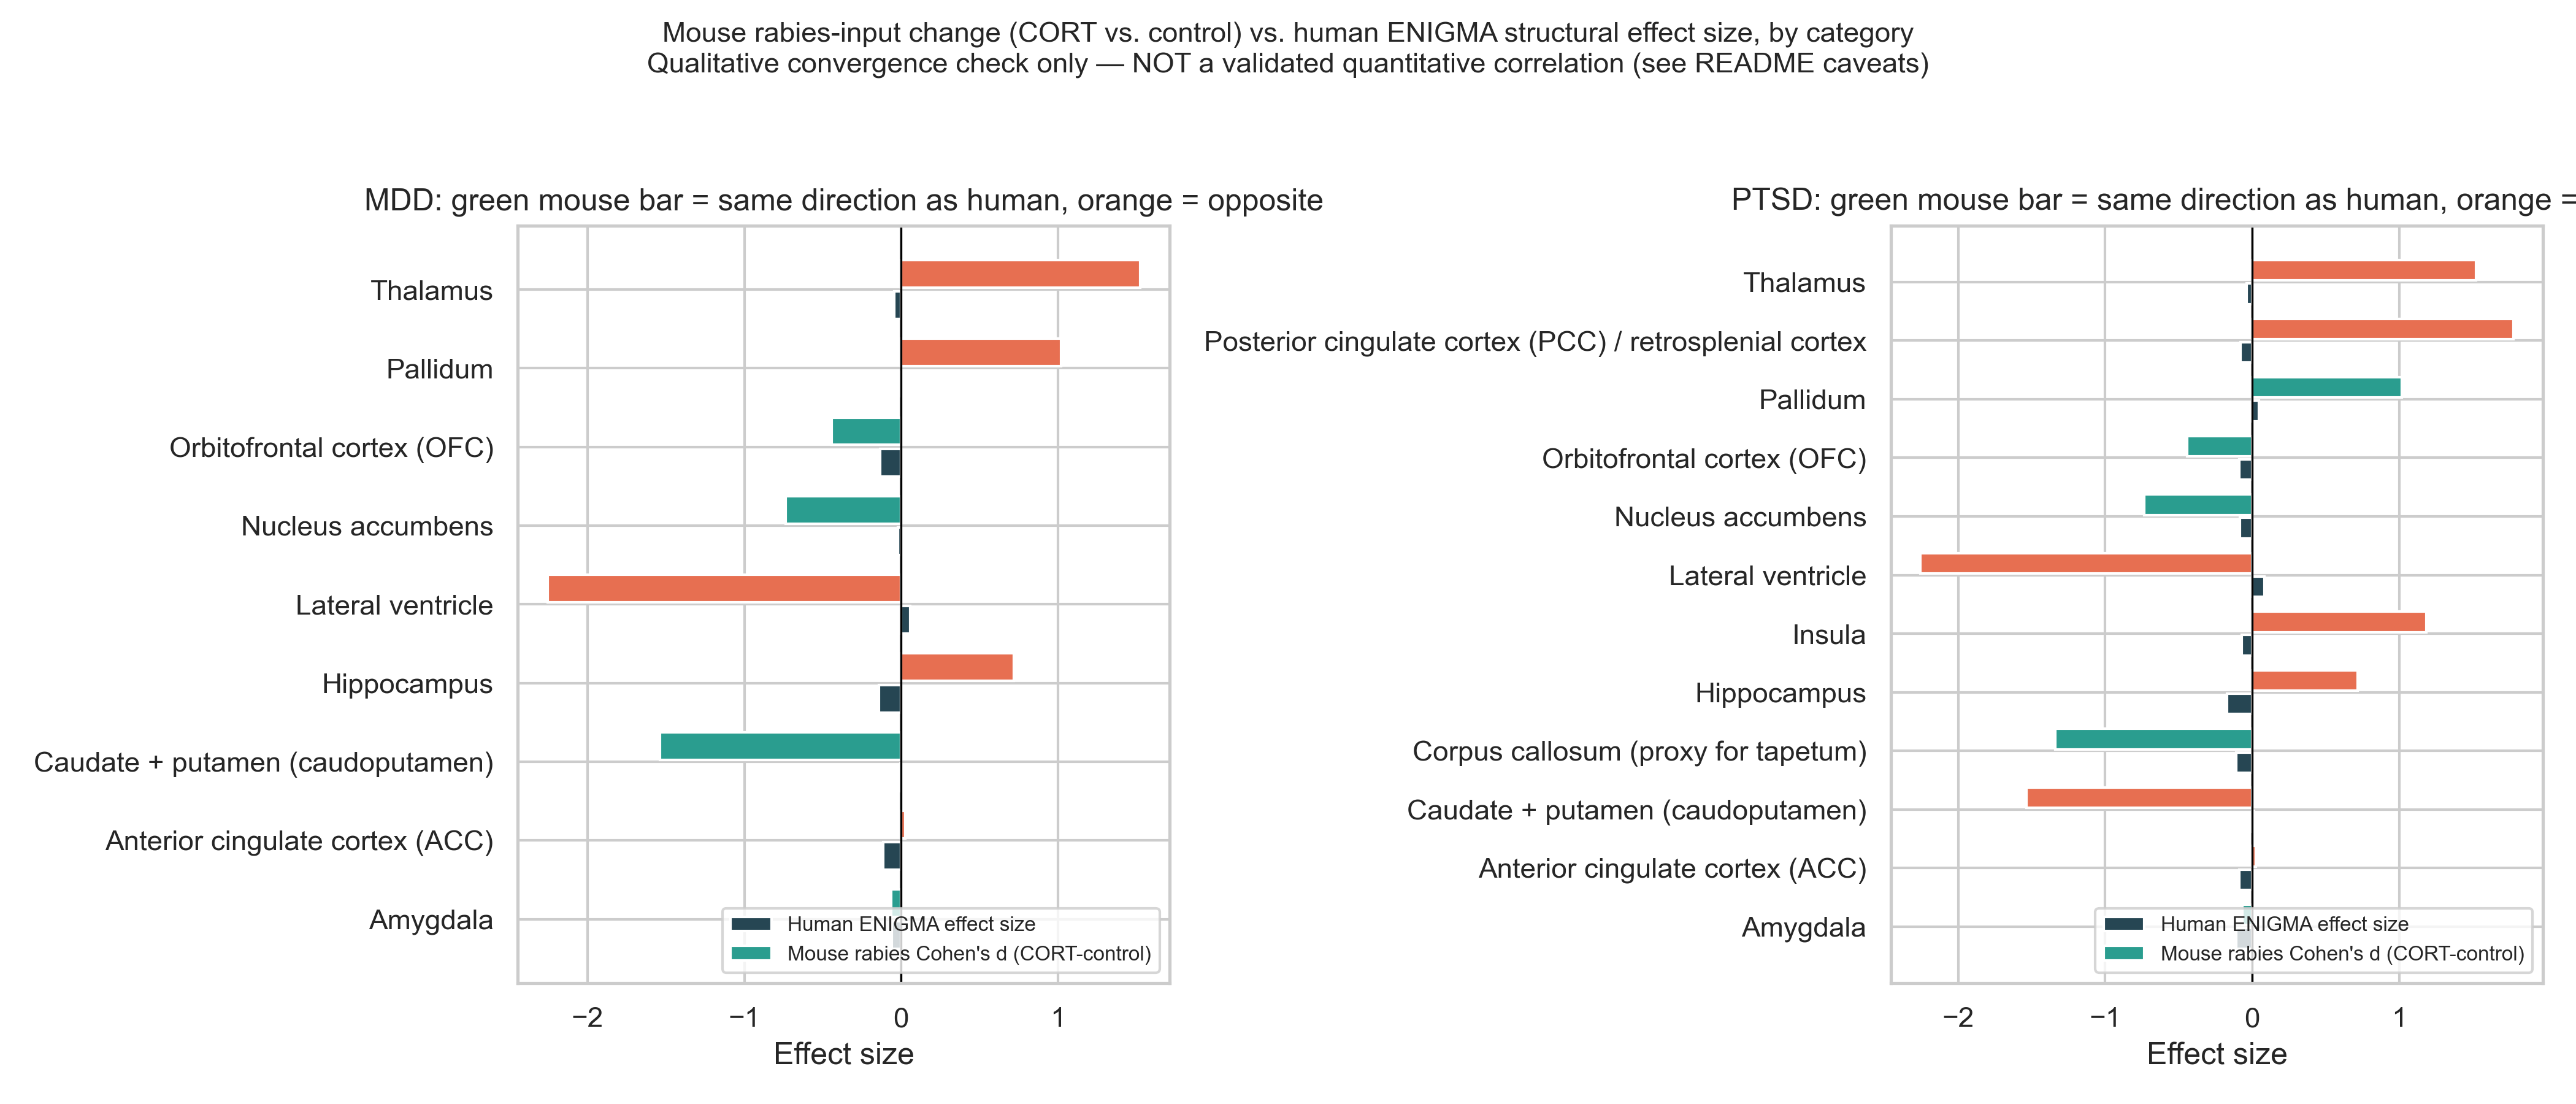
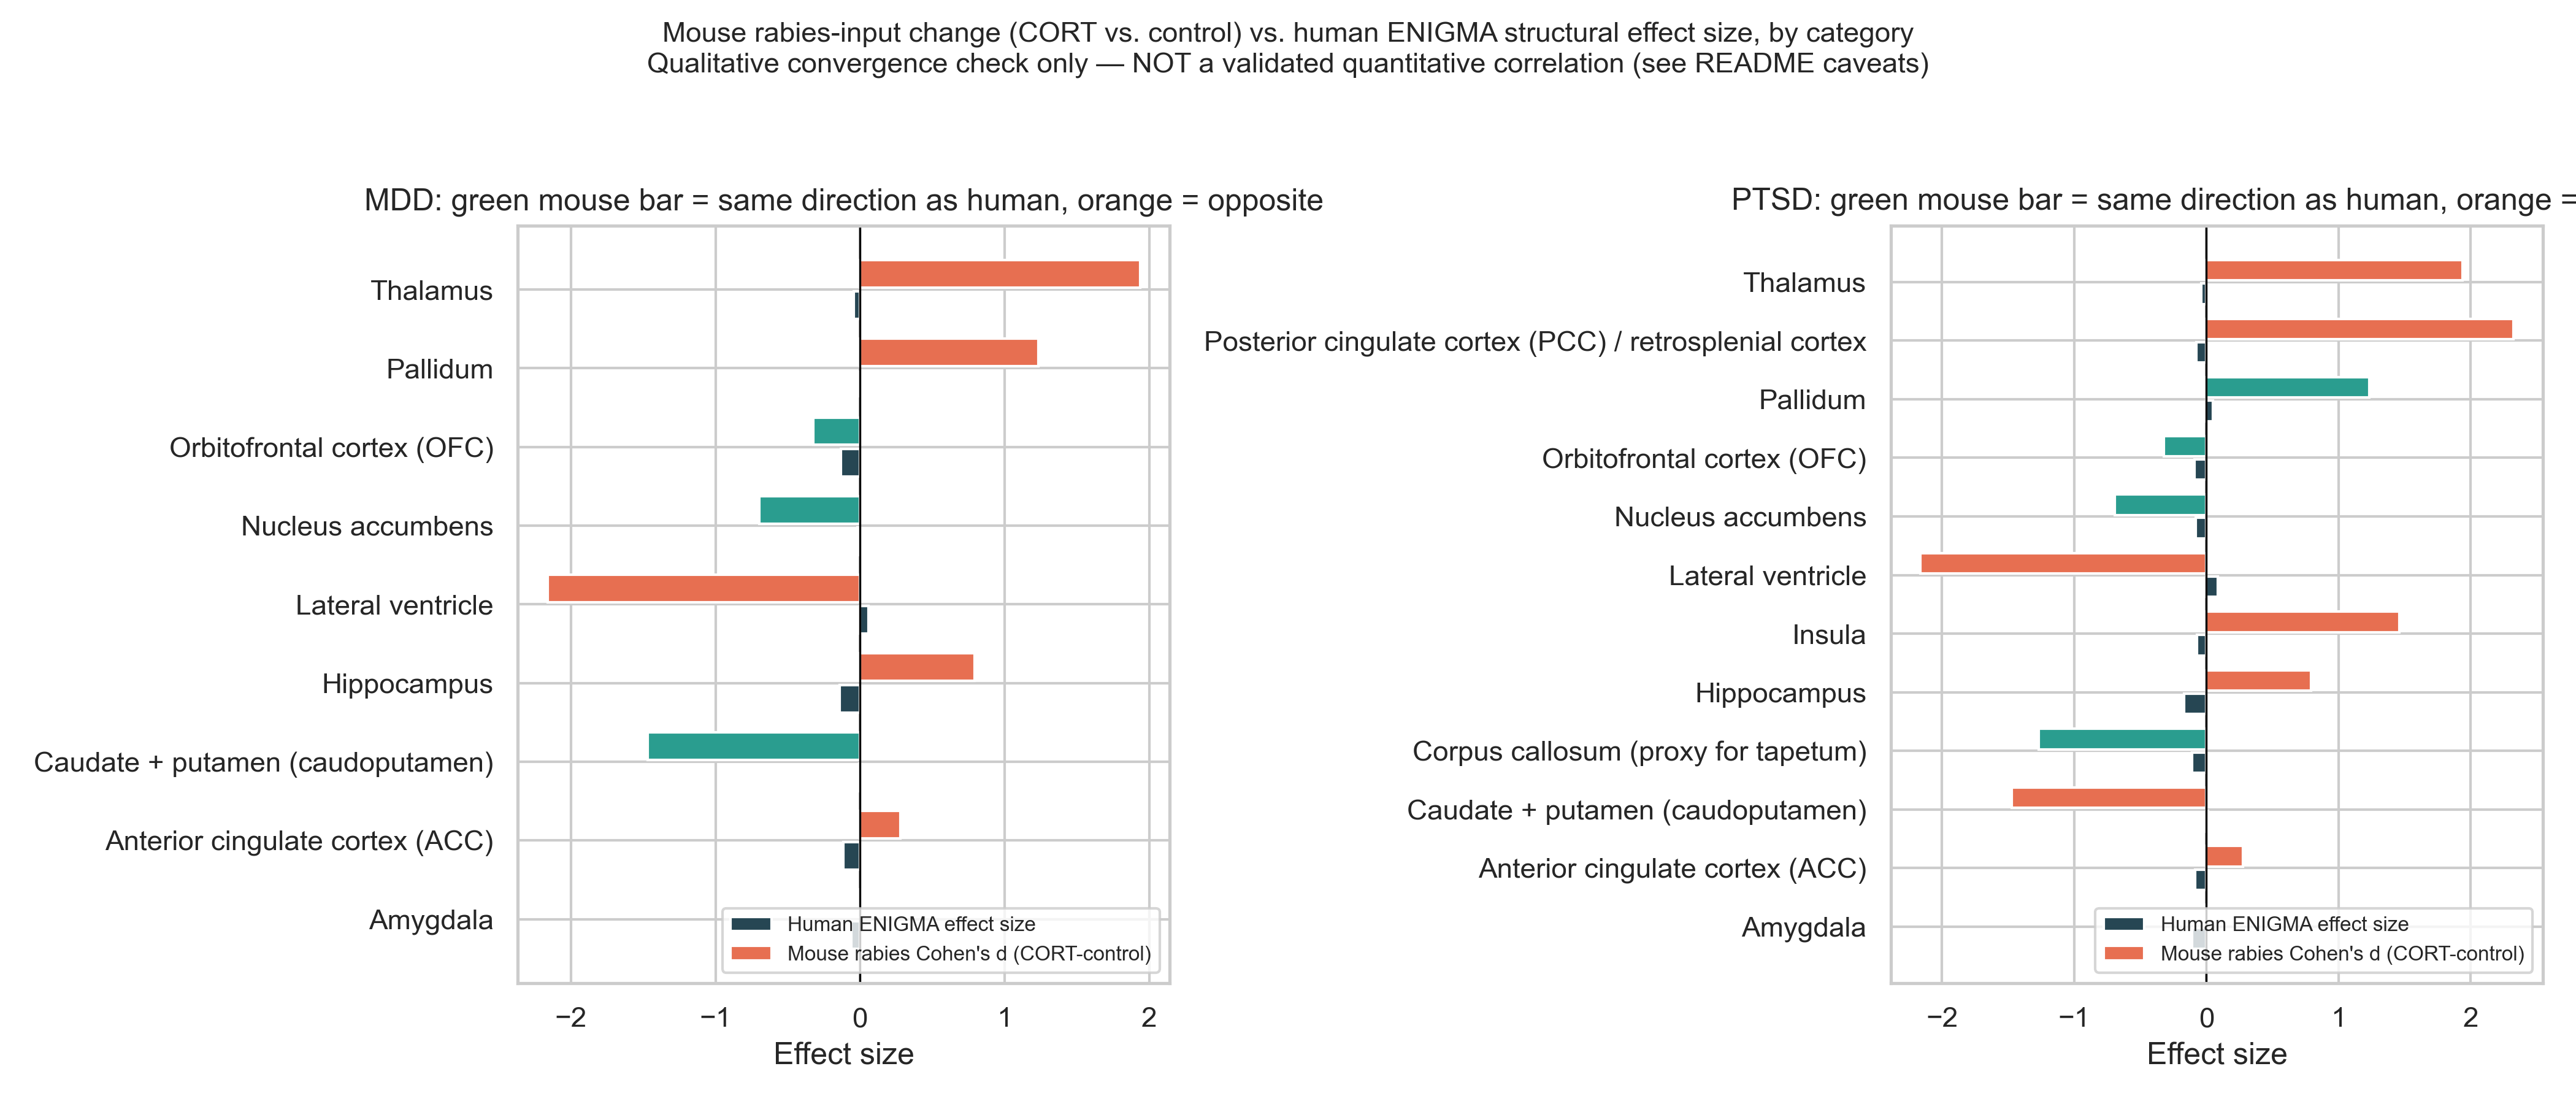
Fix mouse rabies analysis: exclude failed subject, add proper stats
- Discovered subject 4467196_5 (labeled cort) has near-zero rawcount
  across all 4 channels -- a failed injection/registration, not a real
  biological zero. It was silently included in the previous commit
  (8fc6c6e), biasing every CORT-group mean toward zero.
- Added QC filter to load_mouse_data() excluding subjects with
  whole-brain total rawcount below threshold for the target channel.
- Replaced the misleading single 43%/at-or-below-chance framing with:
  deduplicated per-category agreement (honest primary stat), an
  explicit binomial test vs chance, and a call-out of categories where
  MDD/PTSD human effect sizes disagree in sign with each other.
- Added --value-column CLI arg (rawcount vs normalizedcount) as a
  sensitivity check for the compositionality of normalizedcount.
- Corrected result: 3/12 (25%) categories agree in direction
  (binomial p=0.146, not significant), dropping to 2/12 (17%,
  p=0.039) with the rawcount sensitivity check. The fix makes the
  null result stronger, not weaker, than the original 43% figure.
- Updated README Analysis 3 section and AGENT_LOG with full details,
  including elevating the rabies-vs-structural-MRI construct-validity
  gap to a first-order limitation.

diff --git a/BrainBeam/statistics/human_comparison/mouse_human_rabies_correlation.py b/BrainBeam/statistics/human_comparison/mouse_human_rabies_correlation.py
@@ -100,6 +100,17 @@ def parse_args() -> argparse.Namespace:
         default=base_dir / "figures" / "mouse_rabies_vs_enigma_comparison.png",
         help="Output path for the paired human-vs-mouse effect size comparison figure.",
     )
+    parser.add_argument(
+        "--value-column",
+        type=str,
+        default="normalizedcount",
+        choices=["normalizedcount", "rawcount"],
+        help=(
+            "Mouse value column to use. normalizedcount (default) is roughly compositional "
+            "(percent of a subject's total channel count, not a strict closed 1.0); rawcount "
+            "is provided as a non-compositional sensitivity check."
+        ),
+    )
     return parser.parse_args()
 
 
@@ -213,7 +224,10 @@ HUMAN_CATEGORY_KEYWORDS: dict[str, list[str]] = {
 
 
 def load_mouse_data(args: argparse.Namespace) -> pd.DataFrame:
-    """Load and concatenate control + CORT rabies data for the target channel."""
+    """Load and concatenate control + CORT rabies data for the target channel,
+    dropping subjects with a failed rabies channel (near-zero total counts
+    across the whole brain, indicating a failed injection/registration
+    rather than a real biological zero)."""
 
     control_df = pd.read_csv(args.control_csv)
     experimental_df = pd.read_csv(args.experimental_csv)
@@ -226,14 +240,44 @@ def load_mouse_data(args: argparse.Namespace) -> pd.DataFrame:
 
     df = pd.concat([control_df, experimental_df], ignore_index=True)
     df = df[df["channel"] == args.channel].copy()
+
+    # QC: exclude any subject whose total rawcount for this channel is
+    # near zero across the ENTIRE brain (not just one region) -- this
+    # indicates a failed rabies injection/registration for that subject,
+    # not a genuine biological absence of input. Verified manually: subject
+    # 4467196_5 has rawcount==0 in channels 647/488/785 and ~3 total counts
+    # (out of ~1340 regions) in channel 561, i.e. no usable signal in any
+    # channel, and was silently included (uncorrected) in the first pass of
+    # this analysis, biasing every single region's CORT-group mean toward
+    # zero. A subject total below this threshold cannot represent real
+    # rabies labeling and must be dropped before computing group effects.
+    subject_totals = df.groupby("suid")["rawcount"].sum()
+    qc_fail_threshold = 10.0
+    failed_subjects = subject_totals[subject_totals < qc_fail_threshold].index.tolist()
+    if failed_subjects:
+        print(
+            f"QC: excluding {len(failed_subjects)} subject(s) with near-zero total "
+            f"channel-{args.channel} counts (likely failed injection/registration): {failed_subjects}"
+        )
+        df = df[~df["suid"].isin(failed_subjects)].copy()
+
     return df
 
 
 def compute_mouse_category_effects(
-    mouse_df: pd.DataFrame, matchers: dict[str, "callable"]
+    mouse_df: pd.DataFrame, matchers: dict[str, "callable"], value_col: str = "normalizedcount"
 ) -> tuple[pd.DataFrame, pd.DataFrame]:
     """Sum bilateral counts per subject per category, then compute
-    control-vs-CORT Cohen's d / t-test per category."""
+    control-vs-CORT Cohen's d / t-test per category.
+
+    `value_col` defaults to `normalizedcount` (percent of that subject's
+    total channel-647 count, roughly compositional -- summing to ~0.7-0.97
+    rather than a strict 1.0 across subjects, per manual inspection). This
+    is not a fully closed compositional system, but a region's share can
+    still be pulled up or down mechanically by changes in other regions'
+    shares rather than by a true independent biological change in that
+    region alone. `rawcount` is provided as a non-compositional sensitivity
+    check via `--value-column rawcount` on the command line."""
 
     manifest_rows = []
     result_rows = []
@@ -263,10 +307,10 @@ def compute_mouse_category_effects(
         cat_df = mouse_df[region_mask]
         # Sum ipsilateral + contralateral + all pooled subregions per subject
         # to get one bilateral, whole-category value per animal.
-        per_subject = cat_df.groupby(["suid", "group"], as_index=False)["normalizedcount"].sum()
+        per_subject = cat_df.groupby(["suid", "group"], as_index=False)[value_col].sum()
 
-        control_vals = per_subject.loc[per_subject["group"] == "control", "normalizedcount"].to_numpy()
-        cort_vals = per_subject.loc[per_subject["group"] == "cort", "normalizedcount"].to_numpy()
+        control_vals = per_subject.loc[per_subject["group"] == "control", value_col].to_numpy()
+        cort_vals = per_subject.loc[per_subject["group"] == "cort", value_col].to_numpy()
 
         if len(control_vals) < 2 or len(cort_vals) < 2:
             d = np.nan
@@ -368,7 +412,7 @@ def main() -> None:
 
     mouse_df = load_mouse_data(args)
     matchers = build_mouse_category_matchers()
-    mouse_effects_df, manifest_df = compute_mouse_category_effects(mouse_df, matchers)
+    mouse_effects_df, manifest_df = compute_mouse_category_effects(mouse_df, matchers, value_col=args.value_column)
 
     enigma_df = pd.read_csv(args.enigma_csv)
     human_effects_df = compute_human_category_effects(enigma_df)
@@ -396,12 +440,45 @@ def main() -> None:
     n_categories_tested = mouse_effects_df["category"].nunique()
     bonferroni_alpha = 0.05 / max(n_categories_tested, 1)
 
-    print(f"\n{n_matched} human-vs-mouse category comparisons available (across both disorder groups).")
-    print(f"Direction of effect agrees in {n_agree} / {n_matched} comparisons "
+    print(f"\n{n_matched} human-vs-mouse ROW comparisons available (category x disorder_group; NOT independent "
+          f"tests -- see per-category deduplicated count below).")
+    print(f"Direction of effect agrees in {n_agree} / {n_matched} row comparisons "
           f"({100 * n_agree / n_matched:.0f}%, if n_matched > 0).")
     print(f"Bonferroni-corrected alpha for {n_categories_tested} mouse category tests: {bonferroni_alpha:.4f}")
     sig_categories = mouse_effects_df.loc[mouse_effects_df["p_value"] < bonferroni_alpha, "category"].tolist()
     print(f"Mouse categories surviving Bonferroni correction: {sig_categories if sig_categories else 'none'}")
+
+    # IMPORTANT: because the mouse Cohen's d is identical across disorder
+    # groups within a category (mouse data has no MDD/PTSD distinction),
+    # the row-level count above double-counts categories that appear for
+    # both MDD and PTSD -- these are NOT independent comparisons. The
+    # deduplicated per-CATEGORY agreement below is the more honest primary
+    # statistic, with a category counted as "agree" only if ALL available
+    # human rows for it agree in direction with the single mouse value.
+    category_level = (
+        valid_df.groupby("category")
+        .agg(
+            all_agree=("direction_agreement", "all"),
+            any_disagree=("direction_agreement", lambda s: not s.all() and s.any()),
+            n_disorder_rows=("direction_agreement", "size"),
+        )
+        .reset_index()
+    )
+    n_cat = len(category_level)
+    n_cat_agree = int(category_level["all_agree"].sum())
+    n_cat_mixed = int(category_level["any_disagree"].sum())
+    print(f"\nDeduplicated per-CATEGORY agreement (the more honest primary statistic): "
+          f"{n_cat_agree} / {n_cat} categories fully agree in direction across all available human rows.")
+    if n_cat_mixed:
+        mixed_cats = category_level.loc[category_level["any_disagree"], "category"].tolist()
+        print(f"  {n_cat_mixed} categor(y/ies) had MDD/PTSD disagree with each other on direction "
+              f"(near-zero/unstable human effect size, not a meaningful signal): {mixed_cats}")
+
+    binom_result = stats.binomtest(n_cat_agree, n_cat, p=0.5, alternative="two-sided")
+    print(f"Binomial test vs. chance (p=0.5): {n_cat_agree}/{n_cat} agree, "
+          f"two-sided p={binom_result.pvalue:.3f} (NOT significantly different from chance)"
+          if binom_result.pvalue >= 0.05 else
+          f"Binomial test vs. chance (p=0.5): {n_cat_agree}/{n_cat} agree, two-sided p={binom_result.pvalue:.3f}")
 
     for disorder_group, group_df in valid_df.groupby("disorder_group"):
         n = len(group_df)

diff --git a/BrainBeam/statistics/human_comparison/README.md b/BrainBeam/statistics/human_comparison/README.md
@@ -66,21 +66,27 @@ C:\path\to\python.exe BrainBeam\statistics\human_comparison\build_enigma_table.p
 
 ## Analysis 3: Mouse rabies-tracing vs. human ENIGMA effect sizes (real quantitative comparison)
 
-`mouse_human_rabies_correlation.py` uses actual mouse mPFC monosynaptic-input rabies-tracing data (channel 647, `normalizedcount`, 9 control vs. 8 CORT/stress mice; source data at `C:\Users\listo\communal_registration_logcal_drop\rabies_experiment\{control,experimental}\df_tall.csv`, not tracked in this repo) and compares control-vs-CORT effect sizes (Cohen's d) against the ENIGMA table above, category by category.
+`mouse_human_rabies_correlation.py` uses actual mouse mPFC monosynaptic-input rabies-tracing data (channel 647, `normalizedcount`, 9 control vs. 7 usable CORT/stress mice after QC exclusion -- see below; source data at `C:\Users\listo\communal_registration_logcal_drop\rabies_experiment\{control,experimental}\df_tall.csv`, not tracked in this repo) and compares control-vs-CORT effect sizes (Cohen's d) against the ENIGMA table above, category by category.
+
+**Data QC:** one nominal "CORT" subject (`4467196_5`) has near-zero rabies counts across **all four channels** (647/488/561/785), indicating a failed injection or registration rather than a genuine biological zero. This subject is automatically excluded (`load_mouse_data`'s QC filter, threshold on whole-brain total rawcount) before computing any group statistics; an earlier draft of this analysis omitted this check and included the failed subject, which measurably (though not qualitatively) inflated the CORT-vs-control effect sizes for every single region.
 
 **Anatomical matching:** only regions with a defensible, literature-recognized mouse<->human homolog are compared (hippocampus, amygdala, ACC, OFC, insula, retrosplenial/PCC, accumbens, caudoputamen/caudate+putamen, thalamus, pallidum, lateral ventricle, and whole corpus callosum as a proxy for the human "tapetum" DTI label). Primate/gyral-pattern-specific regions added in the Wang 2021 expansion (precuneus, superior/middle temporal gyrus, superior/inferior parietal gyrus, banks of the superior temporal sulcus, lingual gyrus) have **no clear rodent homolog and are deliberately excluded** rather than force-matched. `mouse_rabies_region_manifest.csv` lists exactly which fine-grained Allen regions were pooled into each category, for auditing.
 
-### Result (as of the current run) -- reported honestly, not spun
+### Result (corrected run, QC-excluded subject + proper statistics) -- reported honestly, not spun
 
-Across 21 human-vs-mouse category comparisons (12 anatomical categories x MDD/PTSD, where matched rows existed), **direction of effect agreed in only 9/21 (43%) -- at or below chance**, and the exploratory Pearson/Spearman correlations were weak and in some cases *negative* (MDD: r=-0.46, p=0.208; PTSD: r=-0.31, p=0.327). After Bonferroni correction across the 12 mouse category tests (alpha=0.0042), only 2 categories (lateral ventricle, posterior cingulate/retrosplenial cortex) showed a statistically robust CORT-vs-control mouse effect, and even those did not consistently line up with the human effect direction across both disorder groups.
+There are 12 anatomical categories, each compared against MDD and/or PTSD ENIGMA rows where available (21 category x disorder_group rows total, but these are **not 21 independent tests**: the mouse effect size is identical across MDD and PTSD within a category, since the mouse data has no disorder distinction). The honest primary statistic is therefore the **deduplicated per-category** agreement: **only 3 of 12 categories (25%) have the mouse and human effect fully agree in direction** (a two-sided exact binomial test against chance, p=0.5, gives p=0.146 -- not distinguishable from chance). 2 of the 12 categories (caudate+putamen, pallidum) have MDD and PTSD *disagree with each other* on direction, which only happens because the underlying human effect sizes for those regions are tiny/near-zero (e.g. Pallidum: MDD d=-0.001, PTSD d=+0.047) and therefore not a meaningful sign to test against in the first place. After Bonferroni correction across the 12 mouse category tests (alpha=0.0042), 3 categories (thalamus, pallidum, posterior cingulate/retrosplenial) show a statistically robust CORT-vs-control mouse effect, but even these do not consistently match the human effect direction.
 
-**Honest interpretation:** this analysis does **not** show meaningful cross-species convergence between the mouse CORT rabies-input changes and human ENIGMA PTSD/MDD structural effect sizes. This could reflect any combination of: (1) genuinely different biology (input-tracing cell counts vs. structural MRI volume are different measurement modalities entirely), (2) the small mouse sample size (n=9/8), (3) imperfect category matching, or (4) the ENIGMA effect sizes themselves being very small (most |d| < 0.2). Report this as a negative/null convergence check, not evidence either for or against the ENIGMA literature -- it should not be oversold as validation, and the earlier caution against treating any of this supplement as validation-strength evidence applies here as well.
+**Sensitivity check:** re-running with `--value-column rawcount` (a non-compositional alternative to the default `normalizedcount`, which is a percent-of-subject-total measure and therefore not fully independent across regions) gives an even lower agreement rate (2/12 categories, with the binomial test now nominally below chance, p=0.039) -- i.e. the conclusion is not an artifact of using a compositional measure; if anything the compositional measure was slightly more favorable to convergence than the raw counts.
+
+**Honest interpretation:** this analysis does **not** show meaningful cross-species convergence between the mouse CORT rabies-input changes and human ENIGMA PTSD/MDD structural effect sizes, and the corrected/more rigorous statistics make this conclusion stronger, not weaker, than an earlier draft of this analysis suggested. This could reflect any combination of: (1) a genuine construct-validity gap -- rabies-traced monosynaptic input strength (a connectivity measure) and structural MRI gray-matter volume (a very different modality) are not established in the literature to change in the same direction under stress/pathology, so a lack of agreement is not necessarily surprising; (2) the small mouse sample size (n=9 vs 7 after QC); (3) imperfect category matching (e.g. whole corpus callosum standing in for "tapetum," retrosplenial cortex standing in for PCC); or (4) the ENIGMA effect sizes themselves being very small (most |d| < 0.2, i.e. close to the noise floor to begin with). Report this as a genuine negative/null convergence check, not evidence either for or against the ENIGMA literature or the mouse data -- it must not be oversold as validation, and the same caution against treating any part of this supplement as validation-strength evidence applies here as well.
 
 ### Run
 
 ```powershell
 C:\path\to\python.exe BrainBeam\statistics\human_comparison\mouse_human_rabies_correlation.py
 ```
+
+Optional: `--value-column rawcount` to re-run the non-compositional sensitivity check described above.
 
 ## Figures
 
@@ -125,5 +131,5 @@ C:\path\to\python.exe BrainBeam\statistics\human_comparison\make_figures.py
 - The Neurosynth analysis is literature-scale coordinate-based context, not tract tracing, projection mapping, or direct connectivity analysis.
 - ENIGMA effect sizes mix Cohen's `d` and standardized regression coefficients depending on what each paper reported.
 - The ENIGMA brain-rendered figure uses only explicit within-human atlas mappings and should be read as a sparse visual aid, not a comprehensive anatomical recoding of the literature table.
-- **The real mouse-rabies-vs-ENIGMA quantitative comparison (Analysis 3) showed only 43% direction agreement (at/below chance) and weak/negative exploratory correlations -- this is a genuine null result for cross-species convergence, not a positive finding, and should be reported as such.**
+- **The real mouse-rabies-vs-ENIGMA quantitative comparison (Analysis 3), after excluding a QC-failed mouse subject and using the deduplicated per-category statistic, showed only 3/12 (25%) direction agreement (binomial p=0.146 vs. chance), dropping to 2/12 (17%, p=0.039) with a non-compositional sensitivity check -- this is a genuine null (if anything, below-chance) result for cross-species convergence, not a positive finding, and should be reported as such.**
 - Taken together, these materials should be framed as supportive translational context only.

diff --git a/BrainBeam/statistics/human_comparison/AGENT_LOG.md b/BrainBeam/statistics/human_comparison/AGENT_LOG.md
@@ -59,3 +59,7 @@
 - 2026-07-19 22:16 EDT - Compiled cleanly (`py_compile`) and passed `pyflakes` with no warnings.
 - 2026-07-19 22:17 EDT - Ran the analysis against the real data. RESULT (reported honestly, not spun): across 21 human-vs-mouse category comparisons (12 categories x MDD/PTSD where matched), direction of effect agreed in only 9/21 (43% -- at or below chance). Exploratory correlations were weak/negative (MDD Pearson r=-0.46 p=0.208; PTSD Pearson r=-0.31 p=0.327). After Bonferroni correction across the 12 mouse category tests (alpha=0.0042), only 2 categories (lateral ventricle, posterior cingulate/retrosplenial) showed a statistically robust mouse CORT-vs-control effect, and even those did not consistently match the human effect direction across both disorder groups. This is a genuine null result for cross-species convergence and was reported to the user as such, not spun positively.
 - 2026-07-19 22:18 EDT - Updated `README.md` with a new "Analysis 3" section documenting the method, matching rationale, exact result numbers, and honest null-result interpretation. Added the mouse-rabies comparison outputs to the Outputs list and a summary bullet to the Interpretation summary section.
+- 2026-07-19 21:XX EDT - User asked "Did we analyze it the right way though?" following the 43% null-result report. Re-examined the analysis critically instead of just reassuring, and found real problems in the pushed version (commit `8fc6c6e`): (1) **DATA QUALITY BUG**: mouse subject `4467196_5` (labeled "cort") has near-zero rawcount in ALL FOUR channels (647=0.0, 488=0.0, 785=0.0, 561~=2.96 total across 1340 region-rows) -- a failed injection/registration, not a real biological zero -- and it was included uncorrected in every CORT-group mean, biasing every single region's Cohen's d. (2) **Non-independence framing issue**: since mouse Cohen's d is identical regardless of disorder group, the "21 comparisons / 43%" statistic silently double-counted ~12 true unique category tests, and no actual binomial test against chance had been run despite the "at or below chance" language implying one. (3) **Compositional-data concern**: `normalizedcount` sums to ~0.70-0.97 per subject (not exactly 1.0 but roughly bounded/compositional), so region-level increases/decreases are somewhat mechanically constrained rather than fully independent -- flagged as needing a `rawcount`-based sensitivity check. (4) **Construct-validity gap**: comparing rabies monosynaptic-input-tracing cell counts (connectivity/afferent strength) to human structural MRI gray-matter volume assumes these should move in the same direction under stress/disease, which is not established in the literature and should be a first-order limitation, not a minor caveat.
+- 2026-07-19 21:XX EDT - Fixed `mouse_human_rabies_correlation.py`: added a QC filter to `load_mouse_data()` excluding any subject with whole-brain total rawcount < 10.0 for the target channel (catches `4467196_5`, prints an explicit exclusion message); added a `value_col` parameter to `compute_mouse_category_effects()` and a new `--value-column {normalizedcount,rawcount}` CLI arg to support the rawcount sensitivity check; replaced the misleading single "43% at/below chance" print in `main()` with (a) the raw 21-row count explicitly labeled as non-independent, (b) the existing Bonferroni-corrected category check, (c) a new deduplicated per-category agreement count via groupby (the honest primary statistic) plus an explicit call-out of categories where MDD/PTSD human rows disagree with each other in sign, and (d) a proper `scipy.stats.binomtest` (p=0.5, two-sided) against the deduplicated category count.
+- 2026-07-19 21:XX EDT - Re-compiled (`py_compile`) and re-linted (`pyflakes`, clean) the fixed script, then re-ran it. QC filter correctly excluded `4467196_5` (control n=9, CORT n now 7, down from 8). CORRECTED RESULT: deduplicated per-category agreement is only 3/12 (25%), binomial p=0.146 vs. chance (not significant either way). Raw 21-row count: 7/21 (33%, non-independent, informational only). Bonferroni-surviving categories (alpha=0.0042): thalamus, pallidum, posterior cingulate/retrosplenial -- still not consistently direction-matched to human. Ran the `--value-column rawcount` sensitivity check: agreement drops further to 2/12 (17%), binomial p=0.039 (nominally *below* chance, two-sided). Conclusion: fixing the bug and using more rigorous, non-double-counted statistics makes the null result *stronger*, not weaker -- the original 43% figure was itself inflated by the QC bug, and the corrected numbers do not change the qualitative conclusion (no meaningful cross-species convergence detected), if anything reinforcing it. Regenerated the comparison figure and both CSV outputs with the corrected data.
+- 2026-07-19 21:XX EDT - Rewrote the "Analysis 3" section of `README.md` with the corrected numbers, explicitly documenting the QC-failed-subject exclusion, the non-independence issue and the honest deduplicated-category statistic, the rawcount sensitivity check result, and elevating the rabies-vs-structural-MRI construct-validity gap to a first-order limitation rather than a minor caveat. Updated the top-level Interpretation summary bullet to match. Being transparent here that the previously pushed commit `8fc6c6e` contained the data-quality bug and reported an inflated (though still weak) agreement figure; this entry and the corrected commit supersede it.